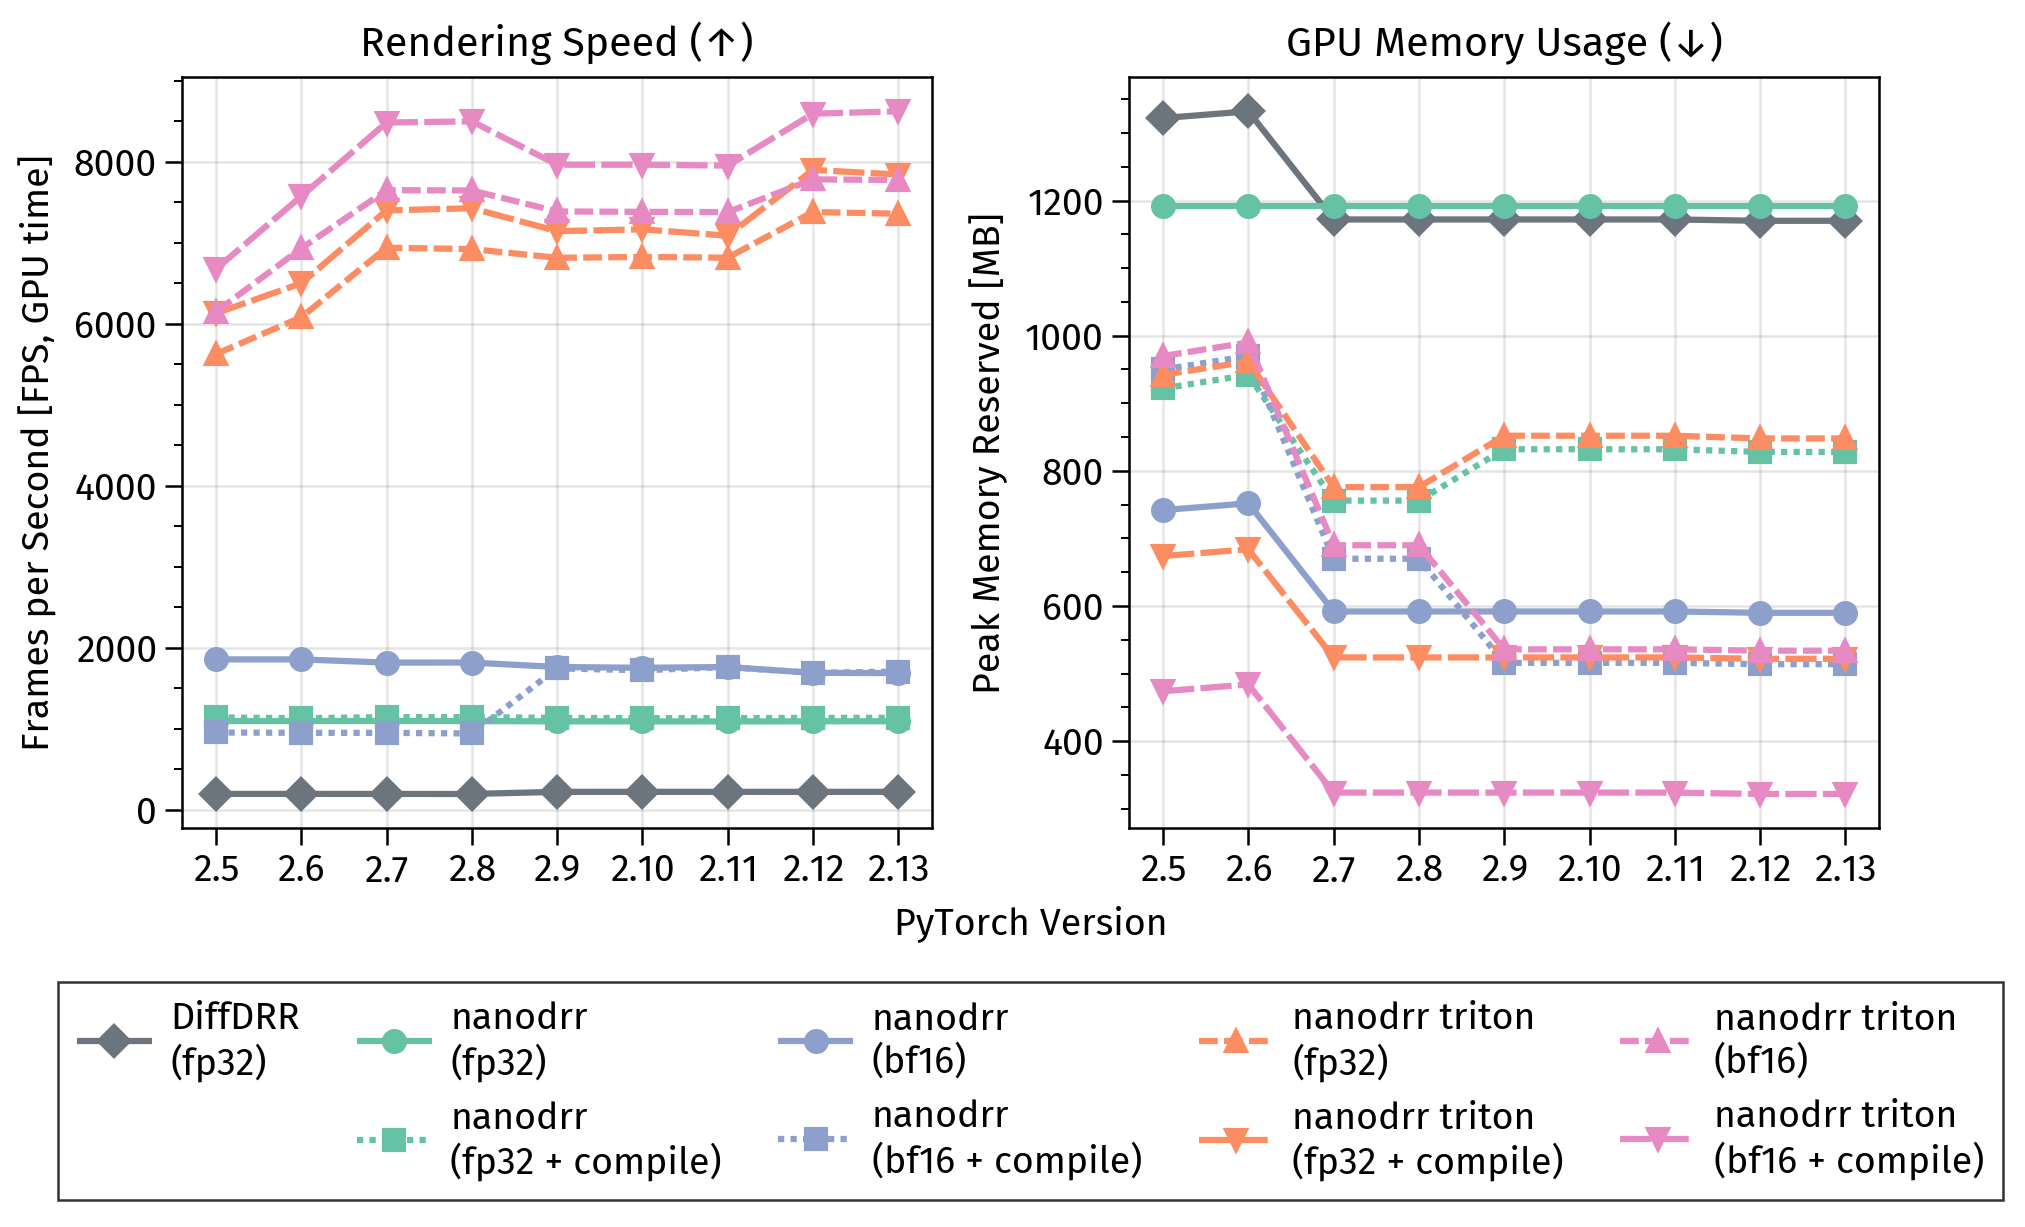
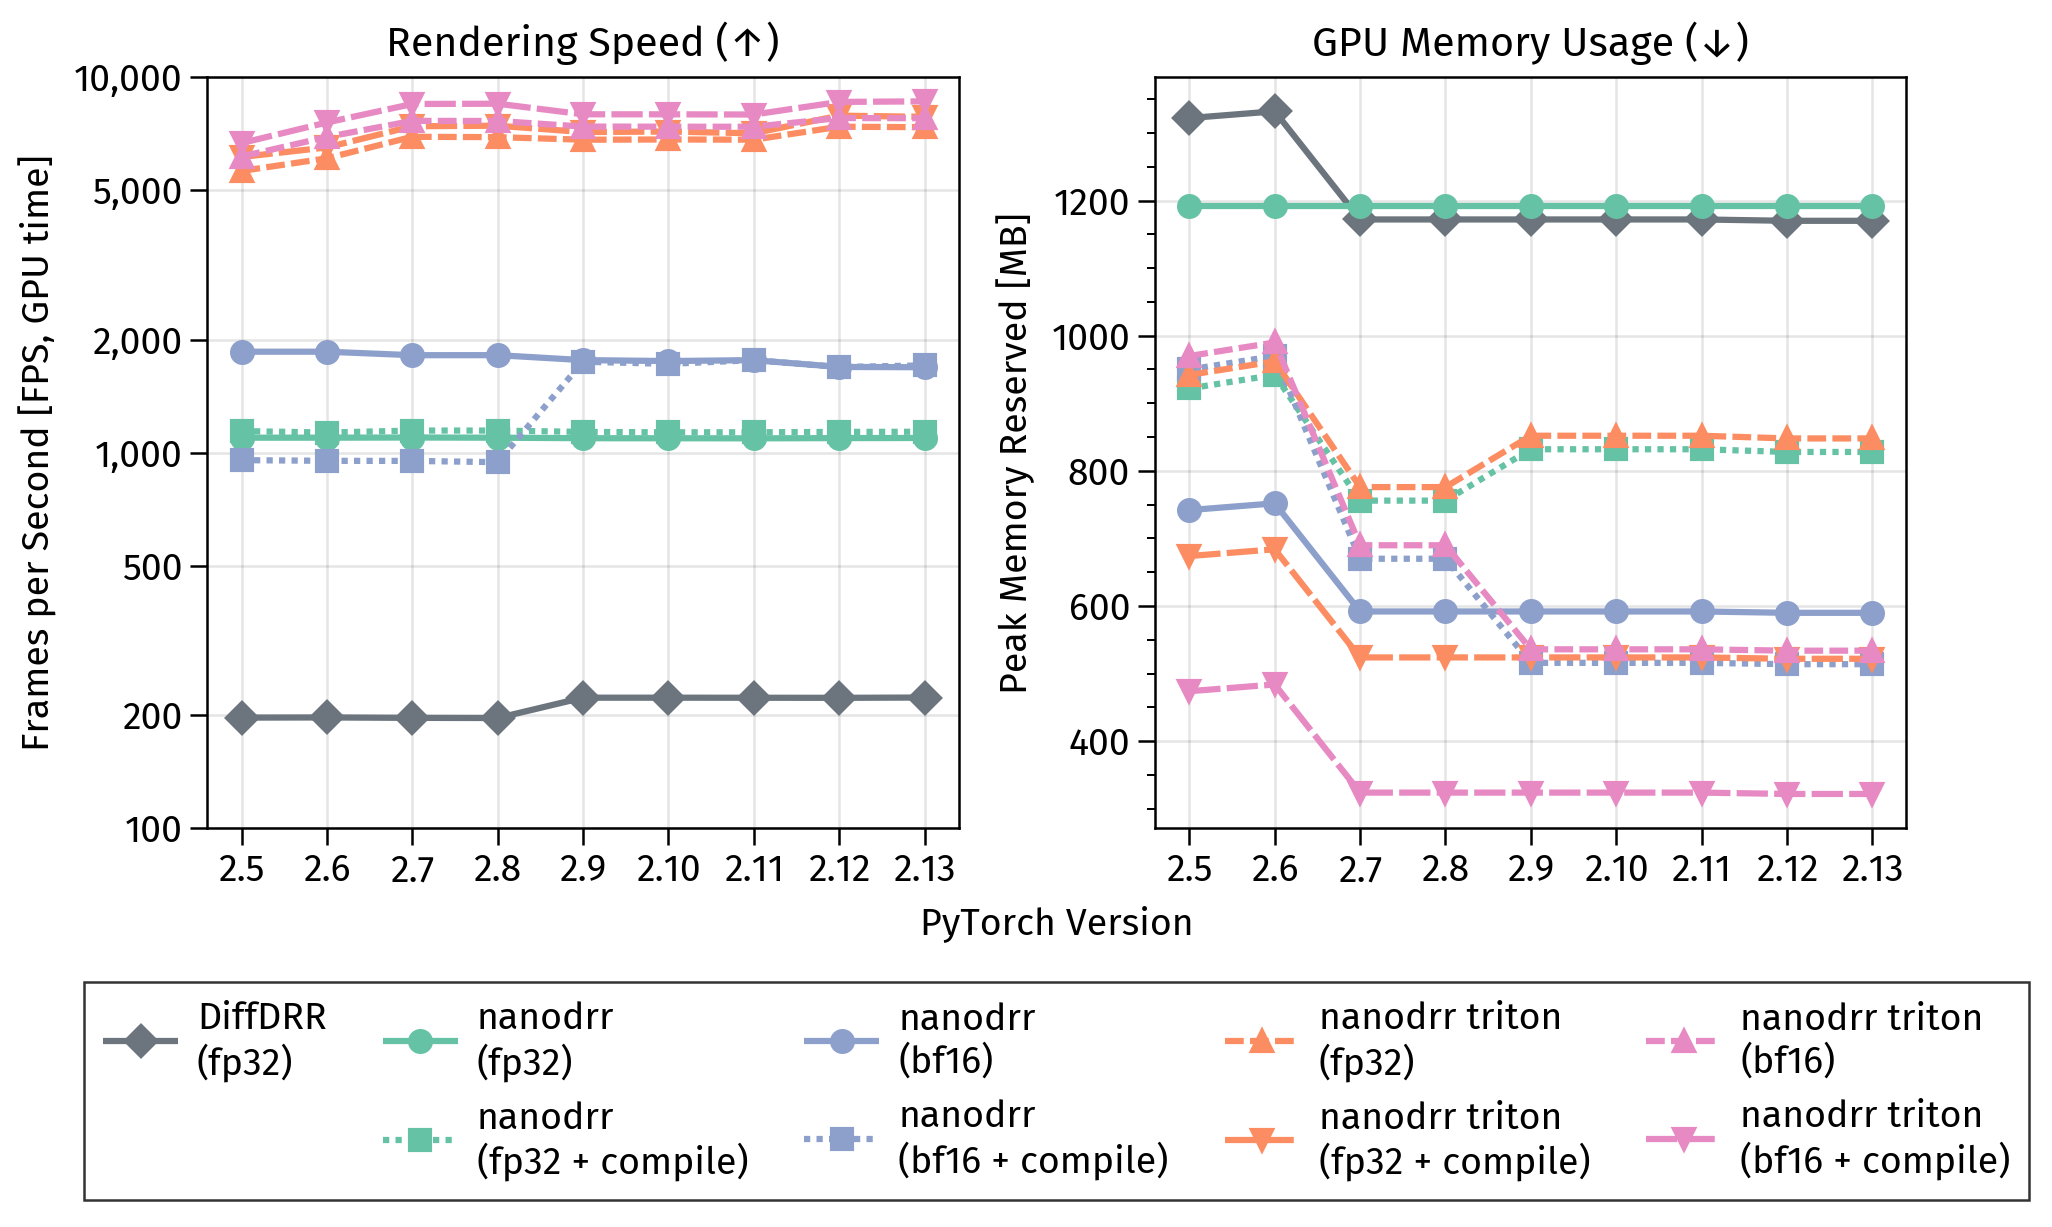
Use log-scale for FPS

diff --git a/tests/benchmark/plot.py b/tests/benchmark/plot.py
@@ -101,6 +101,11 @@ def plot(df: pd.DataFrame, output: str) -> None:
         axs[0].format(
             title="Rendering Speed (↑)",
             ylabel="Frames per Second [FPS, GPU time]",
+            yscale="log",
+            ylim=(100, 10000),
+            yticks=[100, 200, 500, 1000, 2000, 5000, 10000],
+            yticklabels=["100", "200", "500", "1,000", "2,000", "5,000", "10,000"],
+            ytickminor=False,
             xlabel="PyTorch Version",
             xticks=x,
             xticklabels=pt_labels,
